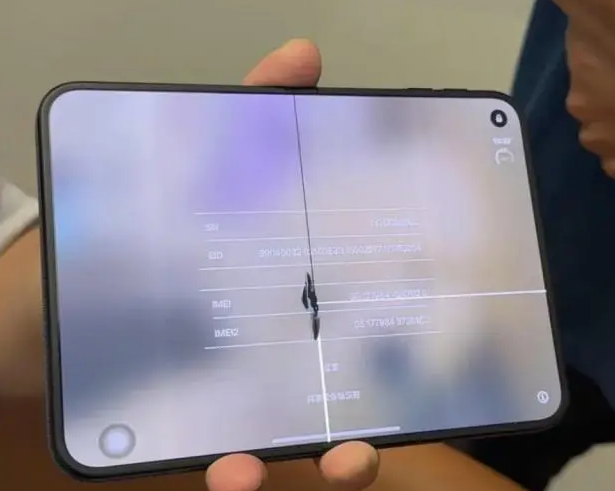
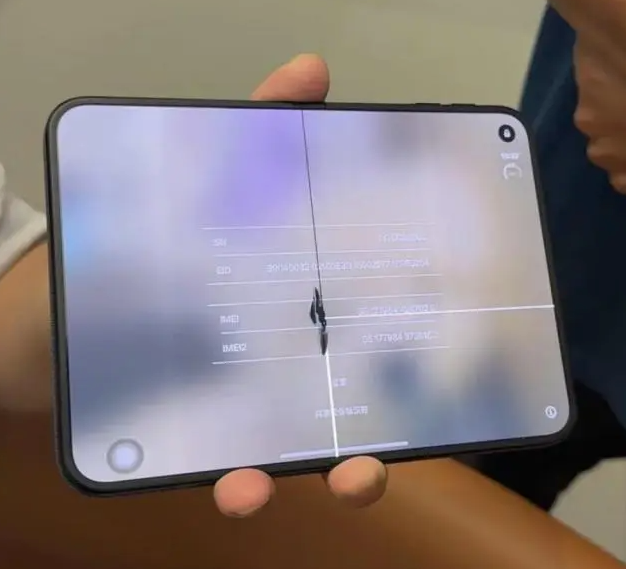
.

diff --git a/images/2026.html b/images/2026.html
@@ -75,8 +75,6 @@
 
 <img src="../i/20261025.png">
 
-<img src="../i/20261025_01.png">
-
 <h2>20261024</h2>
 
 <img src="../i/20261024.png">
